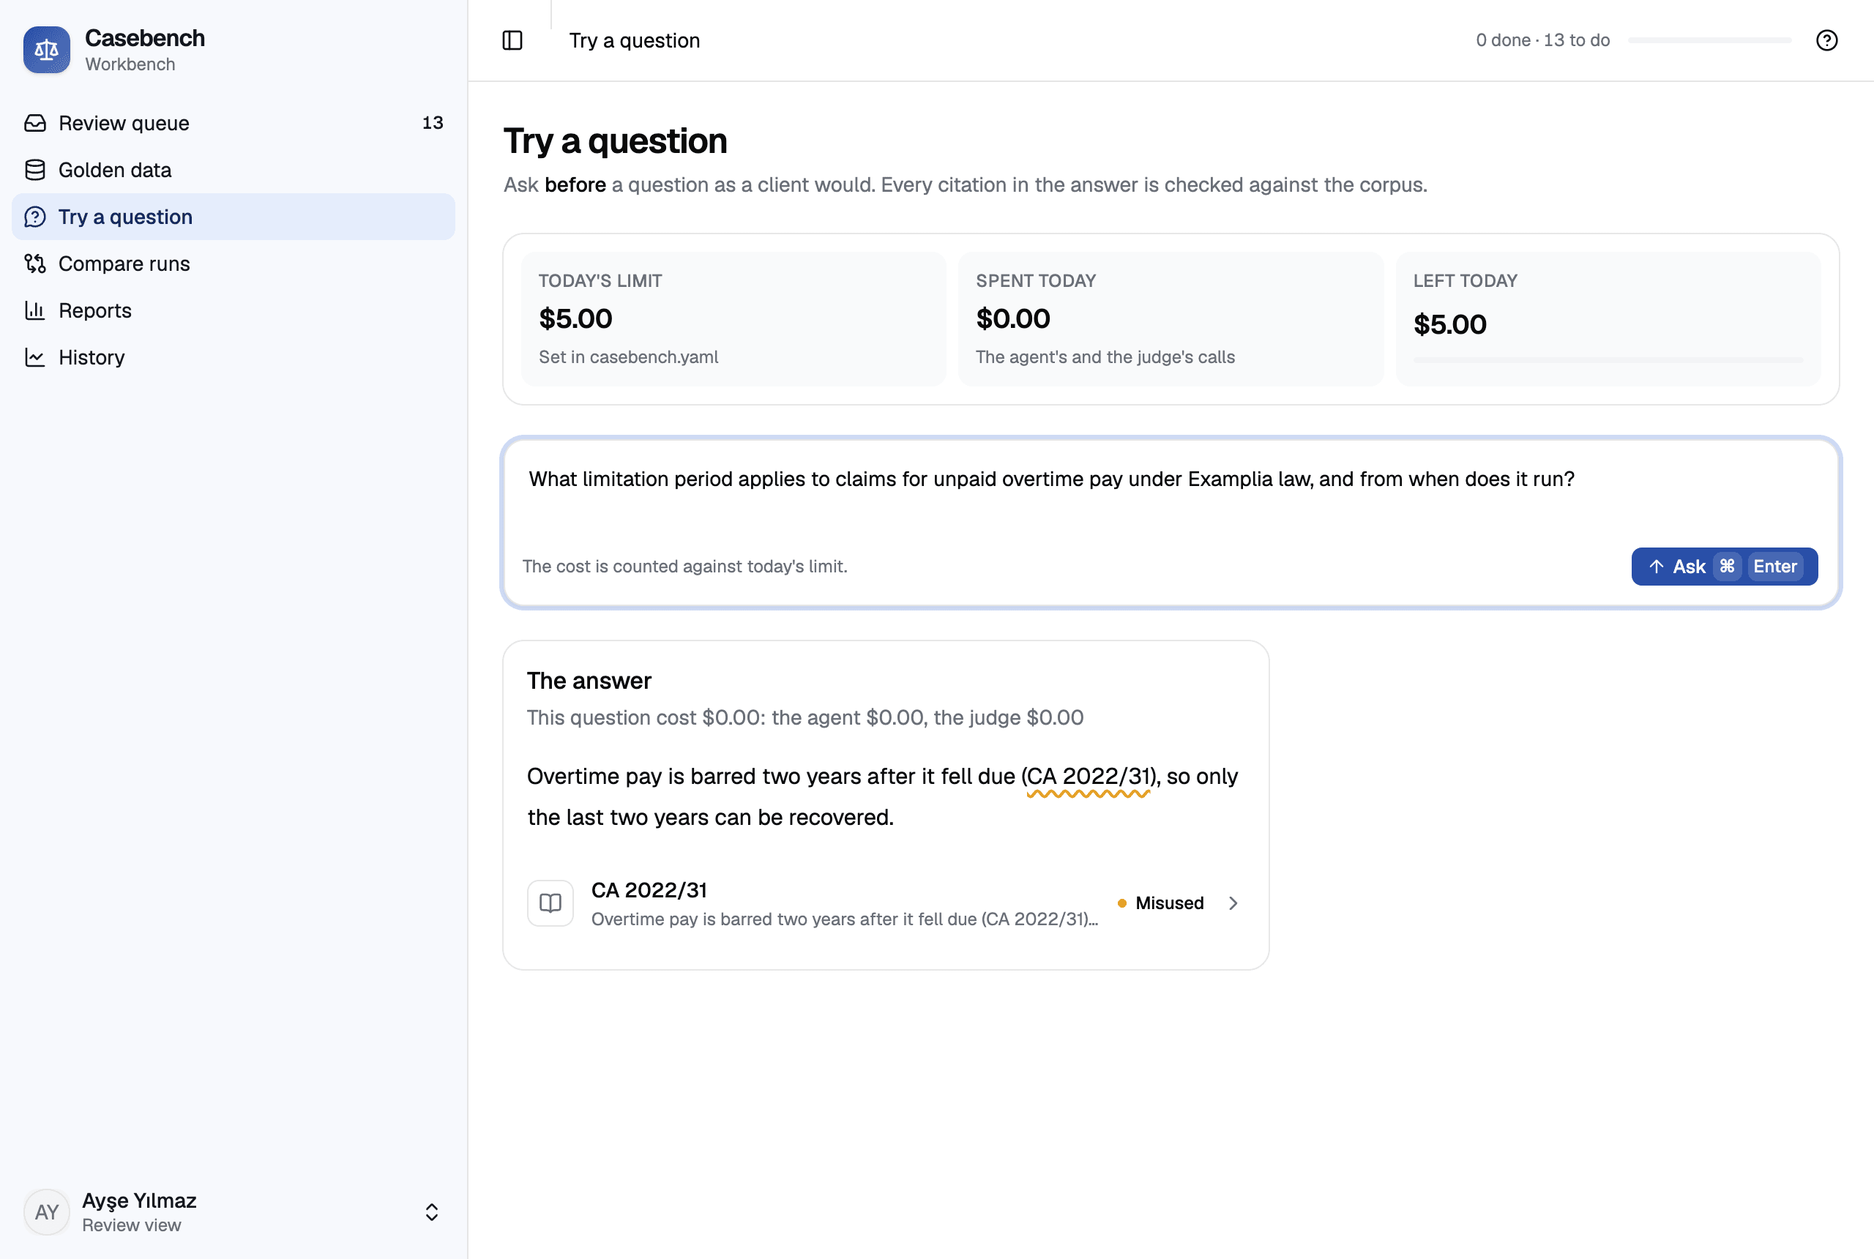
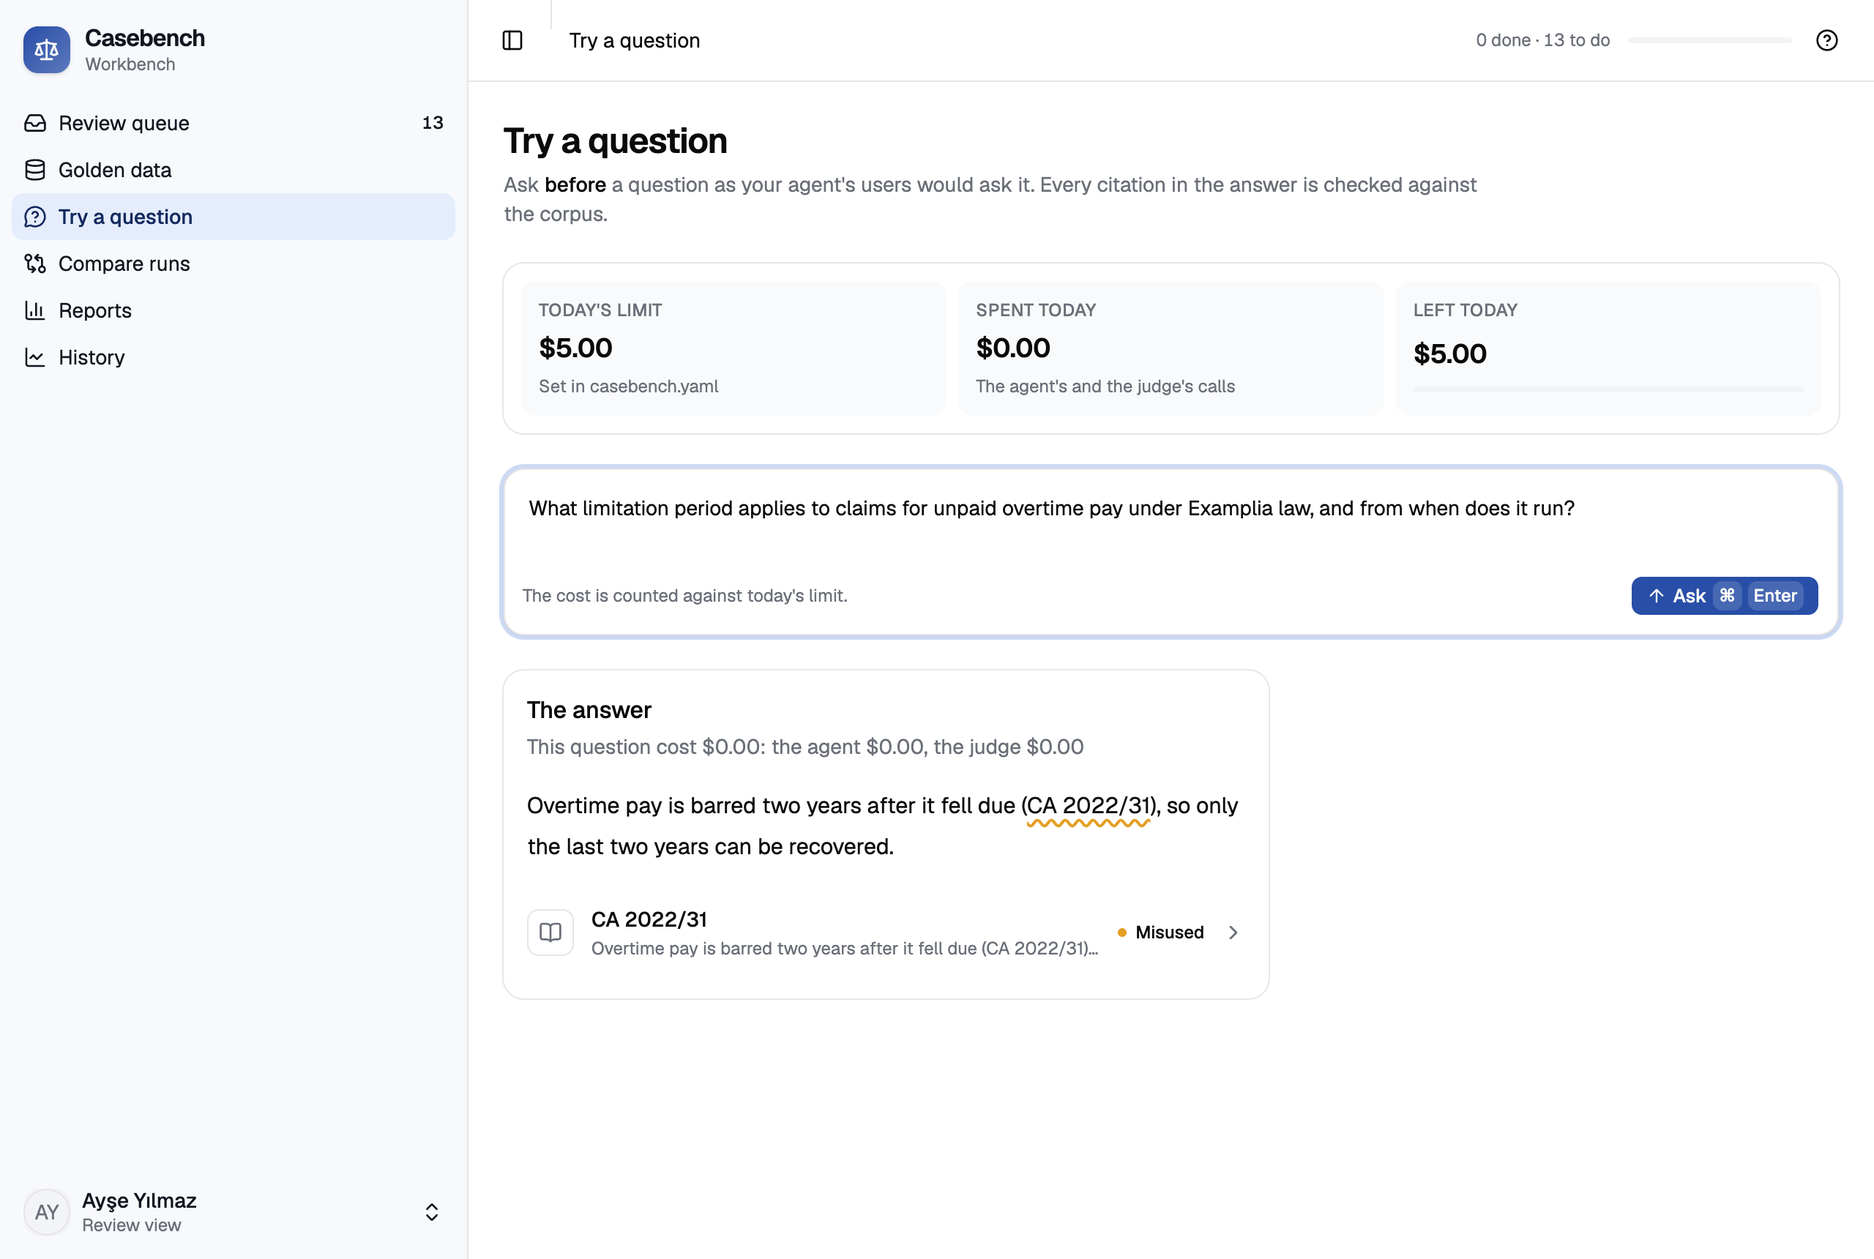
docs: describe setup, capture and key handling as they now work
The coding agent page names the extraction models the guide sets, the cloud
key and profile pages say where keys are read from, compare counts lawyers'
verdicts, followed streams report their tokens, a run reports calls it could
not attribute, and the try-a-question and new-case screenshots show the new
question help.

diff --git a/site/src/content/docs/developers/guides/setup/coding-agent.md b/site/src/content/docs/developers/guides/setup/coding-agent.md
@@ -118,7 +118,7 @@ The guide limits calls that cost money. These are the only commands it runs that
 | --- | --- |
 | `casebench corpus probe http` | 1 search for 1 result with `--query`, 1 document with `--fetch` |
 | `casebench corpus add http` | 1 search for 1 result, and 1 document |
-| `casebench check` | 1 search for 1 result and 1 document, 1 message to the agent ("Hi. How are you?"), and 1 short call to each judge |
+| `casebench check` | 1 search for 1 result and 1 document, 1 message to the agent ("Hi. How are you?"), and 1 short call to each judge and each extraction model |
 
 The guide forbids `casebench corpus check` and `casebench run` during setup.
 
@@ -127,22 +127,23 @@ The guide forbids `casebench corpus check` and `casebench run` during setup.
 1. Find the function production calls with a legal question, and what production does before it can run.
 2. Write `.casebench/target.py` and `.casebench/.gitignore`.
 3. Run `casebench keys NAME --json` for each variable Casebench reads itself: the judge's key, the store's key, and the store's URL when the project keeps it in a variable.
-4. Propose a judge from a different model family than the agent's models, using a provider whose key it found. This is the one question you are asked. Say yes, or name another; the provider bills each run.
+4. Propose a judge from a different model family than the agent's models, and two extraction models from two different families, using providers whose keys it found. This is the one question you are asked. Say yes, or name others; the judge is billed on each run, the extraction models once, when the first run builds its suite.
 5. Run `casebench init` with flags only:
 
    ```sh
    casebench init --entry .casebench/target.py:answer --corpus none \
-     --judge-provider PROVIDER --judge-model MODEL --no-extract --no-routes --no-live --yes
+     --judge-provider PROVIDER --judge-model MODEL \
+     --extract PROVIDER_1 MODEL_1 --extract PROVIDER_2 MODEL_2 --no-routes --no-live --yes
    ```
 
-   Then add the agent's own models under `agent_models:`, with their families from `casebench models PROVIDER --json`. Each run checks the judge's family against them.
-6. Connect the document store with `casebench corpus probe http`, then `casebench corpus add http` with the JSONPaths it read from the two responses.
+   Then it makes sure `agent_models:` lists the agent's own models, with their families from `casebench models PROVIDER --json` and no price. Each run checks the judge's family against them and looks their prices up.
+6. Connect the document store: for a document API, `casebench corpus probe http`, then `casebench corpus add http` with the JSONPaths it read from the two responses; for an MCP server, `casebench corpus add mcp`; for a folder of decisions, a `corpora:` block in `casebench.yaml`.
 7. Run `casebench check --json` and fix what fails. Each host the agent calls on its own, such as its model API, goes under `network: allow:`, taken from the agent's code. See [Allow the hosts your agent calls](/developers/guides/setup/network/).
 8. Run `git status --short` and tell you what it set: the adapter, the judge, the corpus, each allowed host and where the code calls it, and the result of `check`.
 
 ## After setup
 
-The coding agent stops at a passing `check`. The guide sets no extraction models, so a first `casebench run` with no suite stops and asks for `extract:` in the config. Add two extraction models, on the workbench's Models page or with `casebench init --extract PROVIDER MODEL` twice, and `casebench run` then builds a suite from your corpus after it says what that costs and you agree; see [Run a suite, and resume one](/developers/guides/runs/run-and-resume/). Lawyers can write cases instead; see [Add lawyer-written cases](/developers/guides/suites/lawyer-cases/).
+The coding agent stops at a passing `check`. A first `casebench run` with no suite then builds one from your corpus with the two extraction models, after it says what that costs and you agree; see [Run a suite, and resume one](/developers/guides/runs/run-and-resume/). Lawyers can write cases instead; see [Add lawyer-written cases](/developers/guides/suites/lawyer-cases/).
 
 After a first evaluation, the guide has the coding agent ask once whether lawyers will review on a team server. With an address, it runs `casebench init --team-server URL --no-routes --yes`, asks you to set `CASEBENCH_CLOUD_KEY` yourself, and runs `casebench check`. It never asks for the key. See [Invite lawyers to a team server](/developers/guides/team/invite-lawyers/).
 

diff --git a/site/src/content/docs/developers/reference/run-folder.md b/site/src/content/docs/developers/reference/run-folder.md
@@ -5,7 +5,7 @@ sidebar:
   order: 4
 ---
 
-A run is a folder under `--runs-dir`, `.casebench/runs/` by default, named by its run id. Every file is plain JSON or JSON Lines, so any language can read it and a diff shows what changed. Casebench replaces each key's value in what it writes to `run.json`, `results.jsonl`, the score sets, `report.json`, `reviews.jsonl` and `preferences.jsonl`.
+A run is a folder under `--runs-dir`, `.casebench/runs/` by default, named by its run id. Every file is plain JSON or JSON Lines, so any language can read it and a diff shows what changed. Casebench replaces each key's value in what it writes to `run.json`, `results.jsonl`, `judge.jsonl`, the score sets, `report.json`, `reviews.jsonl` and `preferences.jsonl`.
 
 ```text
 .casebench/runs/after-prompt-fix/
@@ -23,7 +23,7 @@ The examples on this page come from that run, scored by Casebench 0.5.1 with a s
 
 ## `run.json`
 
-What ran against what, written once when the run starts.
+What ran against what, written when the run starts.
 
 ```json
 {
@@ -32,11 +32,12 @@ What ran against what, written once when the run starts.
   "suite_hash": "sha256:645a2d35171a6a412f5667ded0befc78a9e222b9d076b6c7e8d3321e9f6e61bc",
   "target": "python",
   "casebench_version": "0.5.1",
-  "commit": null
+  "commit": null,
+  "unattributed_calls": 0
 }
 ```
 
-`commit` is the commit the agent's code was at: `--commit`, else `GITHUB_SHA`, else the commit checked out in the folder the run started from, else `null`. A run made with `casebench import` from a spreadsheet of answers has `offline` as its target.
+`commit` is the commit the agent's code was at: `--commit`, else `GITHUB_SHA`, else the commit checked out in the folder the run started from, else `null`. `unattributed_calls` counts the captured calls no case could claim, which happens when several cases run at once and a call carries no trace context; the run's last lines say so when it is above zero. A run made with `casebench import` from a spreadsheet of answers has `offline` as its target.
 
 ## `results.jsonl`
 

diff --git a/site/src/content/docs/integrations/stores/provider-profiles.md b/site/src/content/docs/integrations/stores/provider-profiles.md
@@ -16,9 +16,7 @@ casebench init --profile provider.yaml
 
 The workbench's Jurisdictions page takes a profile too, as a source for a country.
 
-Casebench first checks that every variable the profile names is set in the shell. `corpus add profile` does not read `keys:`, so export the key for this step even if `casebench.yaml` reads it from a `.env` file afterwards. It then makes one live search with the profile's `probe` and one fetch with your key, and stops before writing anything if a required field comes back empty. Then it writes the profile's options into `casebench.yaml` under `corpora:`, along with `profile:`, the file's name, so the config stays reproducible if the profile changes later. It also writes the profile's `metered`, `search_filters` and `keep` when the profile sets them. A profile is read from a local file only; Casebench never fetches one from a URL.
-
-The corpus block does not carry the profile's `probe`. For a store that cannot list its documents, add `probe:` to the block, or pass `--query TEXT` to `casebench check`.
+Casebench first checks that every variable the profile names is set, in the shell or in the `.env` file `keys:` names for it. It then makes one live search with the profile's `probe` and one fetch with your key, and stops before writing anything if a required field comes back empty. Then it writes the profile's options into `casebench.yaml` under `corpora:`, along with `profile:`, the file's name, so the config stays reproducible if the profile changes later. It also writes the profile's `probe`, and its `metered`, `search_filters` and `keep` when the profile sets them, so `casebench check` and `corpus check` can search a store that cannot list its documents. A profile is read from a local file only; Casebench never fetches one from a URL.
 
 `--jurisdiction` covers only the jurisdictions you give instead of the profile's, and `--name` names the corpus. `init --profile` can be given once for each provider.
 

diff --git a/site/src/content/docs/developers/reference/cli.md b/site/src/content/docs/developers/reference/cli.md
@@ -192,7 +192,7 @@ Fetch a sample by id and report which required fields are present or missing.
 | Option | Description |
 | --- | --- |
 | `--config FILE` | [default: casebench.yaml] |
-| `--query TEXT` | A search that finds documents, for a store that cannot list them. |
+| `--query TEXT` | A search that finds documents, for a store that cannot list them; the corpus's probe search when none is given. |
 | `--size INTEGER RANGE` | [default: 200; x>=1] |
 | `--corpus TEXT` | Which corpus, when the config names several. |
 
@@ -232,7 +232,7 @@ One search, one fetch, or both, printed as JSON with the key used by name and ne
 casebench demo [OPTIONS]
 ```
 
-Run a bundled suite with no key, no data and no network, and open the workbench.
+Run a bundled suite with no key and no data, and open the workbench. Like every run, it reads two public price lists; nothing of yours is sent, and no model is asked.
 
 | Option | Description |
 | --- | --- |
@@ -546,7 +546,7 @@ Send every case of a frozen suite to the target, store each result and score the
 | --- | --- |
 | `--suite DIRECTORY` | The frozen suite; without it, .casebench/suites/first, built on the first run (decision 0061). |
 | `--config FILE` | [default: casebench.yaml] |
-| `--python AGENT.PY[:FUNCTION]` | Run a Python agent in this process; FUNCTION defaults to answer. |
+| `--python AGENT.PY[:FUNCTION]` | Run a Python agent in worker processes, with the config's folder first on its import path; FUNCTION defaults to answer. |
 | `--max-concurrency INTEGER RANGE` | Cases at once; overrides the target's setting. [x>=1] |
 | `--run-id TEXT` | Name the run; an existing run of that name resumes. |
 | `--runs-dir DIRECTORY` | [default: .casebench/runs] |

diff --git a/site/src/content/docs/developers/reference/configuration.md b/site/src/content/docs/developers/reference/configuration.md
@@ -126,7 +126,7 @@ The command prints the answer on standard output. A non-zero exit fails the case
 | `search_filters` | map | `{}` | Per kind of citation, `statute` or `decision`, the parameters a search adds |
 | `metered` | string | `none` | `search`, `fetch` or `none`: what the provider charges for |
 | `keep` | list | see below | `documents`, `searches`: what may be kept on disk. Left out, documents are kept, and searches when `metered: search`. |
-| `probe` | string | | A search known to find a document. `corpus add` stores the one it was added with, and `casebench check` runs it when no `--query` is given. |
+| `probe` | string | | A search known to find a document. `corpus add` stores the one it was added with, and `casebench check` and `corpus check` run it when no `--query` is given. |
 | `link` | string | | Where a person reads a document on the provider's site, with `{id}` for its id. A review spreadsheet links each court fact to its decision through it. |
 | `profile` | string | | The profile the options came from. Recorded, never read again. |
 | `connector_source` | string | | The distribution to load when two register the same connector |
@@ -137,7 +137,7 @@ A corpus whose URL is the HTTP target's own endpoint is refused: a system must n
 
 | Key | Meaning |
 | --- | --- |
-| `path` | A folder of JSON files, one [document](/developers/reference/formats/document/) each, relative to the folder you run Casebench from |
+| `path` | A folder of JSON files, one [document](/developers/reference/formats/document/) each, relative to the folder that holds `casebench.yaml` |
 
 ### HTTP options
 

diff --git a/site/src/content/docs/developers/concepts/perimeter.md b/site/src/content/docs/developers/concepts/perimeter.md
@@ -23,7 +23,7 @@ A refused host stops the run. The proxy answers the agent with 403, the case is 
 
 ## Keys never reach a file
 
-Every line a run writes, `run.json`, `results.jsonl`, each score set and `report.json`, is scrubbed before it is written: each key read from a `.env` file and each variable the config names becomes `${NAME}`, and a credential seen only in a header becomes `[credential]`. Recorded calls never hold request headers.
+Every line a run writes, `run.json`, `results.jsonl`, `judge.jsonl`, each score set and `report.json`, is scrubbed before it is written: each key read from a `.env` file and each variable the config names becomes `${NAME}`, and a credential seen only in a header becomes `[credential]`. Recorded calls never hold request headers.
 
 A key read from a `.env` file stays in Casebench's own memory and is never put in the environment, so your agent and every other child process start without it. A model key goes only to its provider's configured address, and a corpus key only in that corpus's configured headers.
 

diff --git a/site/src/content/docs/developers/reference/environment.md b/site/src/content/docs/developers/reference/environment.md
@@ -14,7 +14,7 @@ Casebench reads a credential only from a variable your config names.
 | `OPENAI_API_KEY` | The `openai` provider, unless its `api_key_env` names another, such as `OPENROUTER_API_KEY` |
 | `ANTHROPIC_API_KEY` | The `anthropic` provider, unless its `api_key_env` names another |
 | `CASEBENCH_CLOUD_KEY` | `casebench push`, `invite` and `pull`, and `check` when `cloud:` is set, unless `cloud.key_env` names another |
-| any `${NAME}` | The headers of an HTTP target, an HTTP corpus or an MCP corpus, and an HTTP corpus's `base_url`. A variable set nowhere is an error naming it. |
+| any `${NAME}` | The headers of an HTTP target, an HTTP corpus or an MCP corpus; the address of an HTTP target, an HTTP corpus, an MCP corpus or the team server; and a capture route's `upstream`. A variable set nowhere is an error naming it. |
 
 The `google`, `bedrock` and `azure` providers call through the vendor's SDK, which reads its own variables and sign-in from the environment, as your project already set them up.
 

diff --git a/site/src/content/docs/developers/guides/runs/compare-runs.md b/site/src/content/docs/developers/guides/runs/compare-runs.md
@@ -29,7 +29,7 @@ qa · criteria: 61% -> 100% over 7 cases, difference +11% to +75%, significant
 
 Casebench pairs the two runs' scores case by case and bootstraps the mean difference. A difference whose interval contains zero is marked not significant. Seven cases leave wide intervals, as above.
 
-`compare` reads each run's latest score set as the judge scored it, and counts every case, approved or not. [`casebench gate`](/developers/guides/runs/gate-in-ci/) is the stricter comparison: it applies lawyers' verdicts over the judge's and, by default, pairs only lawyer-approved cases.
+`compare` reads each run's latest score set, with a lawyer's verdict on a criterion in place of the judge's, and counts every case, approved or not. [`casebench gate`](/developers/guides/runs/gate-in-ci/) is the stricter comparison: by default it pairs only lawyer-approved cases.
 
 ## Lawyers' blind preferences
 

diff --git a/site/src/content/docs/developers/guides/suites/extraction-settings.md b/site/src/content/docs/developers/guides/suites/extraction-settings.md
@@ -28,7 +28,7 @@ tokens are rough: 4 characters per token, and it varies by language
 nothing was sent
 ```
 
-The output limit dominates the upper bound, so set `max_tokens` to what an extraction needs. A model with no `max_tokens` leaves the range with no upper bound, and the dry run names it. With no decision cached yet, the input is unknown, and the lower bound counts none of it: run `casebench corpus check` first to fetch a sample.
+The output limit dominates the upper bound, so set `max_tokens` to what an extraction needs. A model with no `max_tokens` leaves the range with no upper bound, and the dry run names it. With no decision cached yet, the input is unknown, so the dry run says the lower bound is unknown and gives only what the output alone may cost: run `casebench corpus check` first to fetch a sample.
 
 ### Where the prices come from
 

diff --git a/site/src/content/docs/developers/guides/team/invite-lawyers.md b/site/src/content/docs/developers/guides/team/invite-lawyers.md
@@ -26,9 +26,9 @@ The server's host joins the hosts a run may call.
 
 ## Set the key
 
-An admin creates an API key with the engineer role on the server's Team page. Set it on your machine as `CASEBENCH_CLOUD_KEY`, in the shell or in a `.env` file. `casebench.yaml` never holds it.
+An admin creates an API key with the engineer role on the server's Team page. Set it on your machine as `CASEBENCH_CLOUD_KEY`, in the shell or in a `.env` file in the project. `casebench.yaml` never holds it.
 
-A key in a `.env` file is read only when `keys:` names that file for it:
+When the shell does not set it, Casebench reads it from the file `keys:` names for it, or else from the project's `.env` files. When two files hold different values, the command stops and names both by fingerprint; name the current one under `keys:`:
 
 ```yaml title="casebench.yaml"
 keys:

diff --git a/site/src/content/docs/developers/guides/capture/model-calls.md b/site/src/content/docs/developers/guides/capture/model-calls.md
@@ -106,7 +106,7 @@ Set the variables in the agent's environment only. If the shell that runs Casebe
 
 ## Streams report tokens through a route
 
-For a streaming request through a route with the `openai` parser that does not ask for usage, the proxy adds `stream_options.include_usage`, so the stream still reports its tokens. It changes nothing else.
+For a streaming chat completion that does not ask for usage, the proxy adds `stream_options.include_usage`, so the stream still reports its tokens. It does so for a route's calls and for a Python agent's calls alike, and changes nothing else.
 
 A Python agent's followed calls are forwarded exactly as sent. A streamed Chat Completions call that does not ask for usage is recorded without token counts.
 

diff --git a/site/src/content/docs/developers/concepts/capture.md b/site/src/content/docs/developers/concepts/capture.md
@@ -39,7 +39,7 @@ When several cases run at once, steps must not mix:
 
 - **Python targets** run one case at a time per worker, and each worker's calls carry its own prefix, so each call is attributed exactly.
 - **HTTP and command targets** receive the case's W3C trace context, as a `traceparent` header or the `TRACEPARENT` variable. A call or span carrying a known trace id belongs to its case.
-- Otherwise a step belongs to the only case running, and with several running it is kept as unattributed. The report says how many.
+- Otherwise a step belongs to the only case running, and with several running it is kept as unattributed. The run says how many as it ends, and keeps the count in `run.json`.
 
 ## What capture does not do
 
